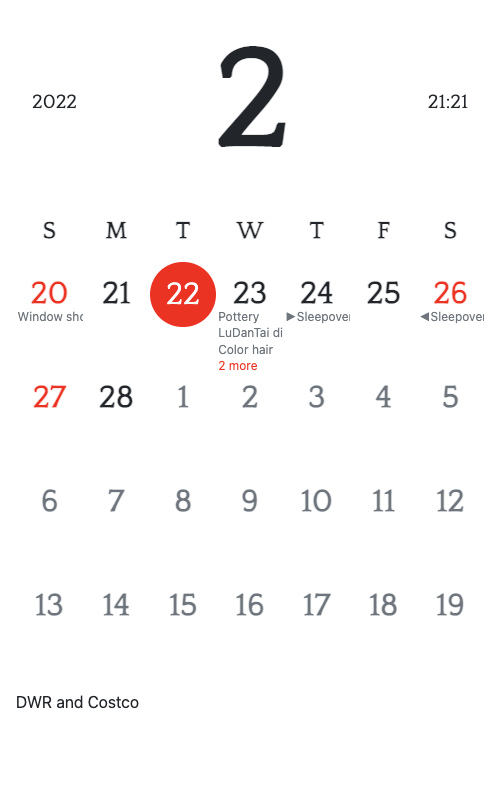
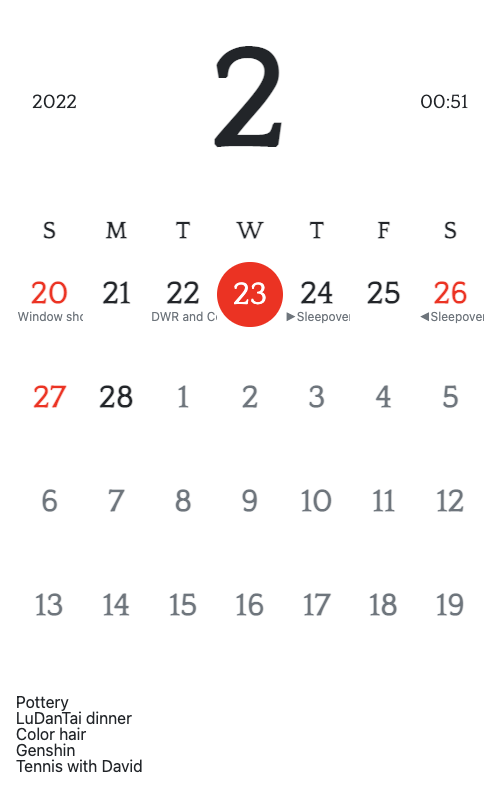
line break

diff --git a/render/calendar.html b/render/calendar.html
@@ -12,7 +12,7 @@
              style="display:flex;justify-content:space-between;">
             <div class="time-info">2022</div>
             <h3 class="month font-weight-bold mb-0 text-uppercase">2</h3>
-            <div class="time-info">21:21</div>
+            <div class="time-info">00:51</div>
         </div>
         <!-- Days of week -->
         <ol class="day-names list-unstyled text-center">
@@ -34,14 +34,11 @@
                 <div class="date">21</div>
             </li>
             <li>
-                <div class="datecircle">22</div>
+                <div class="date">22</div>
+                <div class="event"> DWR and Costco</div>
             </li>
             <li>
-                <div class="date">23</div>
-                <div class="event"> Pottery</div>
-                <div class="event"> LuDanTai dinner</div>
-                <div class="event"> Color hair</div>
-                <div class="event" style="color:red;">2 more
+                <div class="datecircle">23</div>
             </li>
             <li>
                 <div class="date">24</div>
@@ -118,7 +115,7 @@
                 <div class="date text-muted">19</div>
             </li>
         </ol>
-        <div class="event">DWR and Costco</div>
+        <div class="event">Pottery<br>LuDanTai dinner<br>Color hair<br>Genshin<br>Tennis with David</div>
     </div>
 </div>
 </body>

diff --git a/render/styles.css b/render/styles.css
@@ -214,15 +214,6 @@ Calendar Styling */
 }
 
 div.batt_container {
-    width: 53px;
-    height: 27px;
-    position: absolute;
-    top: 5;
-    left: 925;
-    overflow: hidden;
-}
-
-div.batt_container {
     z-index: 10;
 }
 

diff --git a/render/render.py b/render/render.py
@@ -152,7 +152,7 @@ class RenderHelper:
             dayOfMonth = currDate.day
             if currDate == calDict['today']:
                 cal_events_text += '<li><div class="datecircle">' + str(dayOfMonth) + '</div>\n'
-                today = "\n".join([event["summary"] for event in calList[i]])
+                today = "<br>".join([event["summary"] for event in calList[i]])
                 calList[i] = []
             elif currDate.month != calDict['today'].month:
                 cal_events_text += '<li><div class="date text-muted">' + str(dayOfMonth) + '</div>\n'
